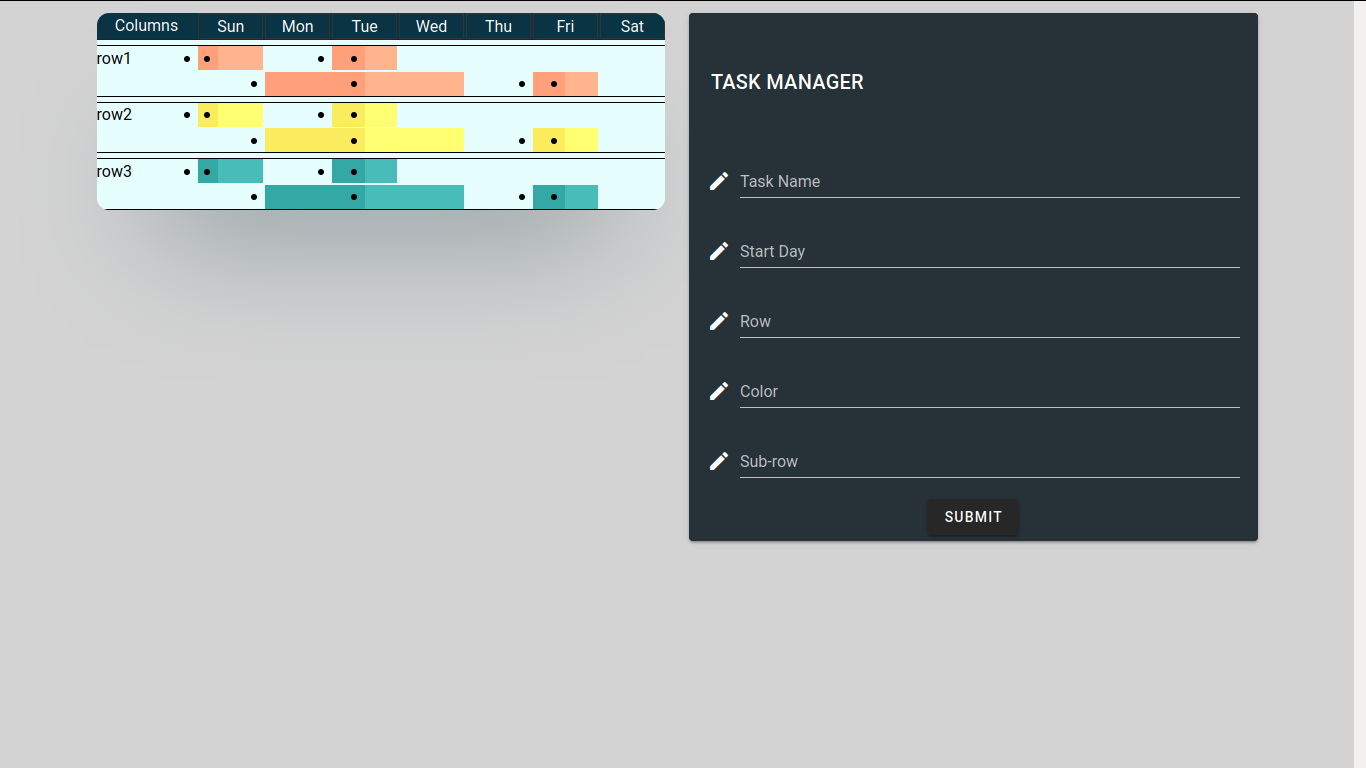
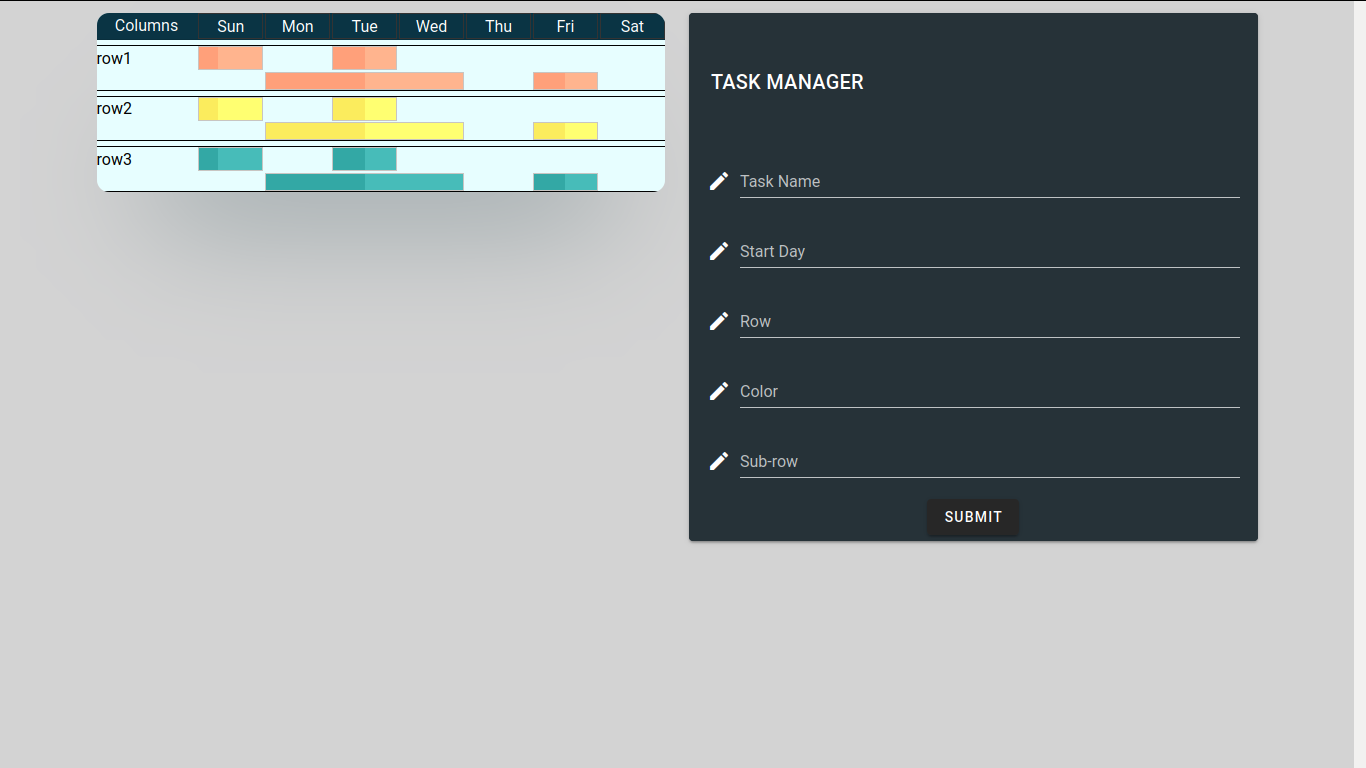
Removed bullets from tasks - Changed <ul> to <progress> - Removed Task's dependency on SubTask component to show progress

Changed region(s): [[0.0615, 0.0938, 0.4919, 0.2812], [0.369, 0.0938, 0.4612, 0.125]]

diff --git a/components/Task.vue b/components/Task.vue
@@ -1,60 +1,19 @@
 <template>
-<!-- <li> -->
-  <ul
-    class="task"
-    :style="cssVars"
-    @mouseover="showText = true"
-    @mouseleave="showText = false"
-  >
-    <!-- {{ name }} -->
-    <!-- <div class="task" :style="cssVars"> -->
-    <SubTask
-    v-show="!showText"
-    :start="1" :end="computedComplete" :color="color" />
-    <SubTask
-    v-show="!showText"
-     :end="11" :start="computedComplete" :color="pendingColor" />
-    <!-- <div style="text-align: center; background-color: transparent; grid-column: 1 / 11;">{{ name }}</div> -->
-    <li
-      v-show="showText"
-      style="grid-column: 1/11; text-align: center; opacity: 0.5; background: var(--color);"
-    >
-      {{ name }}
-    </li>
-
-    <!-- <SubTask :start="1" :end="computedComplete" :color="pendingColor"/>
-      <SubTask :end="11" :start="computedComplete" :color="color"/> -->
-  </ul>
-<!-- </li> -->
+  <progress :style="cssVars" class="task" :value="complete">{{name}}</progress>
 </template>
 
 <style scoped>
-/* ul {
-  list-style-type: none;
- } */
 .task {
-  /* background: transparent; */
-  background: var(--color);
-  /* opacity: 0.0; */
+  background: var(--pending-color);
   padding: 1em;
   grid-column: var(--start) / var(--end);
   padding: 0em;
   margin: 0px;
-  /* text-align: center; */
-  display: grid;
-  grid-template-columns: repeat(10, 1fr);
   width: 100%;
-  /* list-style-type: none; */
-  /* overflow: hidden; */
 }
-/* .complete {
-  background: var(--color);
-  grid-column: var(--start) / var(--complete);
-}
-.pending {
-  background: var(--pending-color);
-  grid-column: var(--start) / var(--end);
-} */
+progress::-webkit-progress-value {background-color: var(--color) !important;}
+progress::-moz-progress-bar {background-color: var(--color) !important;}
+progress {color: var(--color);}
 </style>
 
 <script>
@@ -63,7 +22,6 @@ export default {
   data() {
     return {
       showText: false
-      //   pendingColor: this.LightenDarkenColor(this.color, -20),
     };
   },
   props: {
@@ -91,7 +49,7 @@ export default {
         "--color": this.color,
         "--start": this.start,
         "--end": this.end,
-        "--complete": this.computedComplete,
+        "--complete": this.complete,
         "--pending-color": this.pendingColor
       };
     },

diff --git a/components/SubTask .vue b/components/SubTask .vue
@@ -1,32 +1,18 @@
 <template>
-  <li class="sub-task" :style="cssVars"></li>
-  <!-- <ul class="sub-task" :style="cssVars"></ul> -->
+  <progress class="sub-task" :style="cssVars"></progress>
+  <!-- <li class="sub-task" :style="cssVars"></li> -->
 <!-- <dt class="sub-task" :style="cssVars"></dt> -->
 </template>
 
 <style scoped>
-li::before {
-  list-style-type: none;
- }
-li::after {
-  list-style-type: none;
- }
 .sub-task {
-  /* list-style-type: circle; */
   background: var(--color);
   grid-column: var(--start) / var(--end);
-  /* display: overlay; */
-  /* overflow: hidden; */
 }
 </style>
 
 <script>
 export default {
-  // data() {
-  //   return {
-  //     pendingColor: this.LightenDarkenColor(this.color, -20),
-  //   };
-  // },
   props: {
     start: {
       type: Number
@@ -42,46 +28,11 @@ export default {
     cssVars() {
       return {
         /* variables you want to pass to css */
-        // "--grid-column-span": this.gridColumnSpan,
         "--color": this.color,
         "--start": this.start,
         "--end": this.end,
-        // "--complete": this.start + this.complete,
-        // "--pending-color": this.pendingColor,
       };
     },
-    // pendingColor() {
-    //     return this.LightenDarkenColor(this.color, -20);
-    // }
   },
-  methods: {
-    LightenDarkenColor: function(col, amt) {
-      var usePound = false;
-
-      if (col[0] == "#") {
-        col = col.slice(1);
-        usePound = true;
-      }
-
-      var num = parseInt(col, 16);
-
-      var r = (num >> 16) + amt;
-
-      if (r > 255) r = 255;
-      else if (r < 0) r = 0;
-
-      var b = ((num >> 8) & 0x00ff) + amt;
-
-      if (b > 255) b = 255;
-      else if (b < 0) b = 0;
-
-      var g = (num & 0x0000ff) + amt;
-
-      if (g > 255) g = 255;
-      else if (g < 0) g = 0;
-
-      return (usePound ? "#" : "") + (g | (b << 8) | (r << 16)).toString(16);
-    }
-  }
 };
 </script>

diff --git a/components/Row.vue b/components/Row.vue
@@ -1,10 +1,6 @@
 <template>
   <div class="row" :style="cssVars">
     <div class="row-label">{{ name }}</div>
-    <!-- <Task :name="'task1'" :start="2" :end="3" :color="color" :complete="0.3" />
-    <Task :name="'task2'" :start="4" :end="5" :color="color" :complete="0.5" />
-    <Task :name="'task3'" :start="3" :end="6" :color="color" :complete="0.5" />
-    <Task :name="'task4'" :start="7" :end="8" :color="color" :complete="0.5" /> -->
     <Task :name="'task1'" :start="2" :end="3" :color="color" :complete="0.3" />
     <Task :name="'task2'" :start="4" :end="5" :color="color" :complete="0.5" />
     <Task :name="'task3'" :start="3" :end="6" :color="color" :complete="0.5" />
